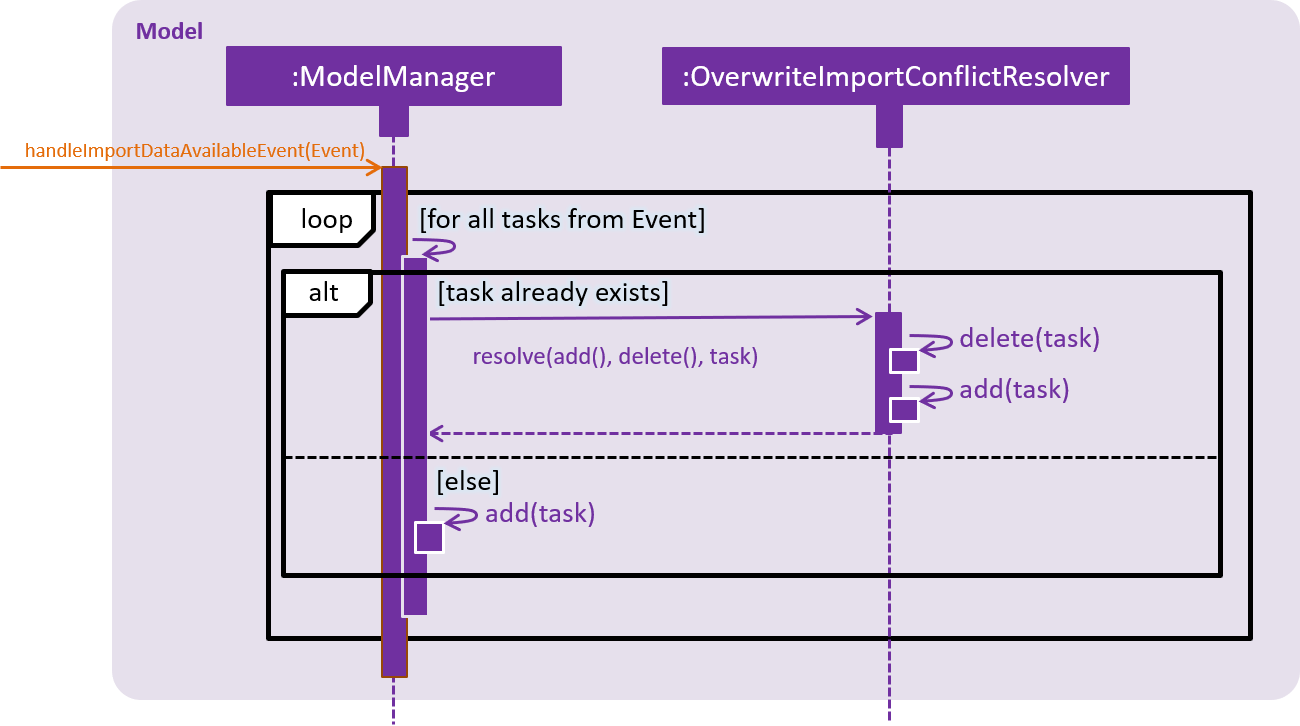
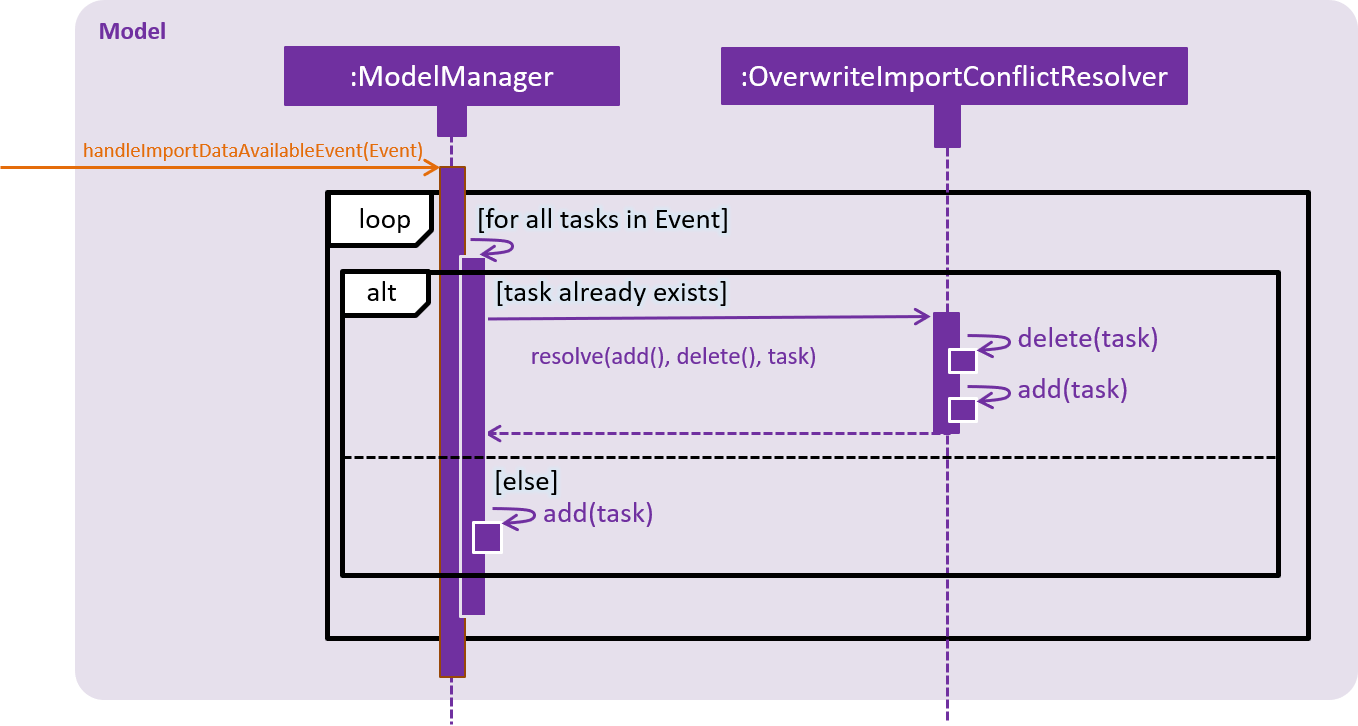
Rebuild pages at 8421741361dd2a0fd14294b3772966d11d95e7c3

diff --git a/team/sijie123.html b/team/sijie123.html
@@ -16,7 +16,7 @@
 <p>Deadline Manager is an easy-to-use application to assist students in managing deadlines. Interacting through a Command Line Interface (CLI), users can easily manage their schedules and focus on what is most important.</p>
 </div>
 <div class="paragraph">
-<p>Deadline Manager is written in Java and builds upon <a href="https://github.com/nus-cs2103-AY1819S1/addressbook-level4">AddressBook Level 4</a>, a code base originally designed to teach Software Engineering principles. For more information and to take our project for a test run, please visit our home page [<a href="https://cs2103-ay1819s1-w17-4.github.io/main">on GitHub</a>].</p>
+<p>Deadline Manager is written in Java and builds upon AddressBook Level 4, a code base originally designed to teach Software Engineering principles. For more information and to take our project for a test run, please visit our home page [<a href="https://cs2103-ay1819s1-w17-4.github.io/main">on GitHub</a>].</p>
 </div>
 </div>
 </div>
@@ -91,7 +91,7 @@
 <p>Added additional checks to detect potential errors in file I/O operations (e.g. saving).</p>
 </li>
 <li>
-<p>Refactored unit test for <code>AddCommandTest</code> by creating  <code>ModelStub</code>, a class containing scaffolding code common to other instances of <code>CommandTest</code>. (<a href="https://github.com/CS2103-AY1819S1-W17-4/main/blob/master/src/test/java/seedu/address/logic/commands/ModelStub.java">ModelStub.java</a>)</p>
+<p>Refactored unit test for <code>AddCommandTest</code> by creating  <code>ModelStub</code>, a class containing scaffolding code common to other types of <code>CommandTest</code>.</p>
 </li>
 </ul>
 </div>
@@ -460,33 +460,7 @@ An ImportExportExceptionEvent is raised if Deadline Manager fails to read or wri
 <div class="paragraph">
 <p>To facilitate communication between the two components, the deadline manager uses the event-driven model.
 An import or export request event is created by <code>ModelManager</code>, and a handler in <code>StorageManager</code> is invoked to handle the event.
-After data has been successfully read or written, the response is placed in another event for <code>ModelManager</code> to process.</p>
-</div>
-<div class="paragraph">
-<p>To achieve the above, <code>ModelManager</code> indicates an import/export request by creating these events:</p>
-</div>
-<div class="ulist">
-<ul>
-<li>
-<p><code>ImportRequestEvent</code>: Requests for a new import from file.</p>
-</li>
-<li>
-<p><code>ExportRequestEvent</code>: Requests to create a new export to file.</p>
-</li>
-</ul>
-</div>
-<div class="paragraph">
-<p><code>ModelManager</code> implements these additional methods to handle the responses from <code>Storage</code>:</p>
-</div>
-<div class="ulist">
-<ul>
-<li>
-<p><code>handleImportDataAvailableEvent</code>: Processes the read task collection and merges tasks into the current collection.</p>
-</li>
-<li>
-<p><code>handleImportExportExceptionEvent</code>: Indicates internally that the last import/export request has failed.</p>
-</li>
-</ul>
+After data has been successfully read or written, the response is placed in a <code>DataAvailableEvent</code> for <code>ModelManager</code> to process. Similarly, errors also are passed between the two components using events (such as <code>ImportExportExceptionEvent</code>).</p>
 </div>
 <div class="admonitionblock note">
 <table>
@@ -495,36 +469,10 @@ After data has been successfully read or written, the response is placed in anot
 <i class="fa icon-note" title="Note"></i>
 </td>
 <td class="content">
-It is the responsibility of the <code>Model</code> to feedback to the user in the case of an exception.
+Due to limited space, detailed technical implementation of inter-component communication is omitted, and an overview is presented below in <a href="#sequence-flow">Sequence Flow</a> instead. You may wish to refer to the <a href="https://cs2103-ay1819s1-w17-4.github.io/main/DeveloperGuide.html#inter-component-communication">Developer Guide</a> for details.
 </td>
 </tr>
 </table>
-</div>
-<div class="paragraph">
-<p>Similarly, <code>StorageManager</code> returns the result of imports and errors with the following events:</p>
-</div>
-<div class="ulist">
-<ul>
-<li>
-<p><code>ImportExportExceptionEvent</code>: Indicates that an error has occurred with import or export.</p>
-</li>
-<li>
-<p><code>ImportDataAvailableEvent</code>: Indicates that the requested task collection has been read from disk.</p>
-</li>
-</ul>
-</div>
-<div class="paragraph">
-<p><code>StorageManager</code> implements these additional methods to handle requests from <code>Model</code>:</p>
-</div>
-<div class="ulist">
-<ul>
-<li>
-<p><code>handleImportRequestEvent</code>: Processes an import event and reads from file.</p>
-</li>
-<li>
-<p><code>handleExportRequestEvent</code>: Processes an export event and writes to file.</p>
-</li>
-</ul>
 </div>
 </div>
 </div>
@@ -589,7 +537,7 @@ It is the responsibility of the <code>Model</code> to feedback to the user in th
 <h4 id="import-conflict-resolver"><a class="link" href="#import-conflict-resolver">4.1.3. Import Conflict Resolver</a></h4>
 <div class="paragraph">
 <p>An imported task is deemed conflicting with an existing task if the two tasks compare <code>equal</code> with the internal implementation of Task&#8217;s <code>equal</code> method.
-If the user attempts to import a new task that conflicts with an existing task, the task needs to be de-conflicted with one of the following resolver:</p>
+If the user attempts to import a new conflicting task, Deadline Manager de-conflicts the task with one of the following resolvers:</p>
 </div>
 <div class="ulist">
 <ul>
@@ -612,7 +560,7 @@ If the user attempts to import a new task that conflicts with an existing task, 
 </div>
 <div class="imageblock">
 <div class="content">
-<img src="../images/ImportConflictResolverSequenceDiagram.png" alt="ImportConflictResolverSequenceDiagram" width="800">
+<img src="../images/ImportConflictResolverSequenceDiagram.png" alt="ImportConflictResolverSequenceDiagram" width="600">
 </div>
 <div class="title">Figure 3. Sequence diagram for import conflict resolver</div>
 </div>
@@ -629,13 +577,13 @@ If the user attempts to import a new task that conflicts with an existing task, 
 <p>Step 3b. <code>OverwriteImportConflictResolver</code> will first <code>delete()</code> the existing task, before it calls <code>add()</code> on the new one. This behaviour is specific to <code>OverwriteImportConflictResolver</code>. A <code>DuplicateImportConflictResolver</code> will simply add the new entry, while a <code>IgnoreImportConflictResolver</code> will do nothing.</p>
 </div>
 <div class="paragraph">
-<p>Step 4. Otherwise, if the task doesn&#8217;t exist, <code>ModelManager</code> adds the task to the model.</p>
+<p>Step 4. Otherwise, if the task doesn&#8217;t exist, <code>ModelManager</code> simply adds the task to the model.</p>
 </div>
 </div>
 <div class="sect3">
 <h4 id="csv-format-support"><a class="link" href="#csv-format-support">4.1.4. CSV Format support</a></h4>
 <div class="paragraph">
-<p>The discussion above has been format-agnostic, abstracting away details about the file formats. Deadline Manager supports both eXtensible Markup Language (XML) and Comma Separated Values (CSV) format. Currently, while XML format can be freely used to import and export data, CSV format can only be used to export data.</p>
+<p>The discussion above has been format-agnostic, abstracting away details about the file formats. Deadline Manager supports both eXtensible Markup Language (XML) and Comma Separated Values (CSV) format.</p>
 </div>
 <div class="admonitionblock note">
 <table>
@@ -748,4 +696,4 @@ Due to limited space in the PPP, an aspect on supporting different file formats 
 </div>
 </div>
 </div>
-</div></div><div id="footer"><div class="container"><div id="footer-text">Last updated 2018-11-12 11:28:01 UTC</div></div></div></body></html>
+</div></div><div id="footer"><div class="container"><div id="footer-text">Last updated 2018-11-12 11:51:34 UTC</div></div></div></body></html>

diff --git a/DeveloperGuide.html b/DeveloperGuide.html
@@ -1204,7 +1204,7 @@ An ImportExportExceptionEvent is raised if Deadline Manager fails to read or wri
 <div class="paragraph">
 <p>To facilitate communication between the two components, the deadline manager uses the event-driven model.
 An import or export request event is created by <code>ModelManager</code>, and a handler in <code>StorageManager</code> is invoked to handle the event.
-After data has been successfully read or written, the response is placed in another event for <code>ModelManager</code> to process.</p>
+After data has been successfully read or written, the response is placed in a <code>DataAvailableEvent</code> for <code>ModelManager</code> to process. Similarly, errors also are passed between the two components using events (such as <code>ImportExportExceptionEvent</code>).</p>
 </div>
 <div class="paragraph">
 <p>To achieve the above, <code>ModelManager</code> indicates an import/export request by creating these events:</p>
@@ -1333,7 +1333,7 @@ It is the responsibility of the <code>Model</code> to feedback to the user in th
 <h4 id="import-conflict-resolver"><a class="link" href="#import-conflict-resolver">4.4.3. Import Conflict Resolver</a></h4>
 <div class="paragraph">
 <p>An imported task is deemed conflicting with an existing task if the two tasks compare <code>equal</code> with the internal implementation of Task&#8217;s <code>equal</code> method.
-If the user attempts to import a new task that conflicts with an existing task, the task needs to be de-conflicted with one of the following resolver:</p>
+If the user attempts to import a new conflicting task, Deadline Manager de-conflicts the task with one of the following resolvers:</p>
 </div>
 <div class="ulist">
 <ul>
@@ -1356,7 +1356,7 @@ If the user attempts to import a new task that conflicts with an existing task, 
 </div>
 <div class="imageblock">
 <div class="content">
-<img src="images/ImportConflictResolverSequenceDiagram.png" alt="ImportConflictResolverSequenceDiagram" width="800">
+<img src="images/ImportConflictResolverSequenceDiagram.png" alt="ImportConflictResolverSequenceDiagram" width="600">
 </div>
 <div class="title">Figure 16. Sequence diagram for import conflict resolver</div>
 </div>
@@ -1373,13 +1373,13 @@ If the user attempts to import a new task that conflicts with an existing task, 
 <p>Step 3b. <code>OverwriteImportConflictResolver</code> will first <code>delete()</code> the existing task, before it calls <code>add()</code> on the new one. This behaviour is specific to <code>OverwriteImportConflictResolver</code>. A <code>DuplicateImportConflictResolver</code> will simply add the new entry, while a <code>IgnoreImportConflictResolver</code> will do nothing.</p>
 </div>
 <div class="paragraph">
-<p>Step 4. Otherwise, if the task doesn&#8217;t exist, <code>ModelManager</code> adds the task to the model.</p>
+<p>Step 4. Otherwise, if the task doesn&#8217;t exist, <code>ModelManager</code> simply adds the task to the model.</p>
 </div>
 </div>
 <div class="sect3">
 <h4 id="csv-format-support"><a class="link" href="#csv-format-support">4.4.4. CSV Format support</a></h4>
 <div class="paragraph">
-<p>The discussion above has been format-agnostic, abstracting away details about the file formats. Deadline Manager supports both eXtensible Markup Language (XML) and Comma Separated Values (CSV) format. Currently, while XML format can be freely used to import and export data, CSV format can only be used to export data.</p>
+<p>The discussion above has been format-agnostic, abstracting away details about the file formats. Deadline Manager supports both eXtensible Markup Language (XML) and Comma Separated Values (CSV) format.</p>
 </div>
 <div class="paragraph">
 <p>The CSV/XML format support is implemented using the respective <code>{*}TaskCollectionStorage</code> class. <code>XMLTaskCollectionStorage</code> is able to import and export data, so it implements both <code>TaskCollectionReadStorage</code> and <code>TaskCollectionWriteStorage</code> interface. On the other hand, <code>CSVTaskCollectionStorage</code> can only export data, so it implements only the <code>TaskCollectionWriteStorage</code> interface.</p>
@@ -4834,4 +4834,4 @@ Expected: Similar to previous.</p>
 </div>
 </div>
 </div>
-</div></div><div id="footer"><div class="container"><div id="footer-text">Last updated 2018-11-12 11:28:01 UTC</div></div></div></body></html>
+</div></div><div id="footer"><div class="container"><div id="footer-text">Last updated 2018-11-12 11:51:34 UTC</div></div></div></body></html>

diff --git a/team/johndoe.html b/team/johndoe.html
@@ -442,4 +442,4 @@ If the <code>currentStatePointer</code> is at index <code>taskCollectionStateLis
 <p><em>{Optionally, you may include other projects in your portfolio.}</em></p>
 </div>
 </div>
-</div></div><div id="footer"><div class="container"><div id="footer-text">Last updated 2018-11-12 11:28:01 UTC</div></div></div></body></html>
+</div></div><div id="footer"><div class="container"><div id="footer-text">Last updated 2018-11-12 11:51:34 UTC</div></div></div></body></html>

diff --git a/ContactUs.html b/ContactUs.html
@@ -12,4 +12,4 @@
 <p><strong>Email us</strong> : You can also reach us at <code>damith [at] comp.nus.edu.sg</code></p>
 </li>
 </ul>
-</div></div><div id="footer"><div class="container"><div id="footer-text">Last updated 2018-11-12 11:28:01 UTC</div></div></div></body></html>
+</div></div><div id="footer"><div class="container"><div id="footer-text">Last updated 2018-11-12 11:51:34 UTC</div></div></div></body></html>

diff --git a/LearningOutcomes.html b/LearningOutcomes.html
@@ -542,4 +542,4 @@ class gives some examples of how to use <em>Equivalence Partitions</em>, <em>Bou
 </div>
 </div>
 </div>
-</div></div><div id="footer"><div class="container"><div id="footer-text">Last updated 2018-11-12 11:28:01 UTC</div></div></div></body></html>
+</div></div><div id="footer"><div class="container"><div id="footer-text">Last updated 2018-11-12 11:51:34 UTC</div></div></div></body></html>

diff --git a/team/btzy.html b/team/btzy.html
@@ -605,4 +605,4 @@ The second component in the list above also accepts a filter unit that contains 
 </div>
 </div>
 </div>
-</div></div><div id="footer"><div class="container"><div id="footer-text">Last updated 2018-11-12 11:28:01 UTC</div></div></div></body></html>
+</div></div><div id="footer"><div class="container"><div id="footer-text">Last updated 2018-11-12 11:51:34 UTC</div></div></div></body></html>

diff --git a/team/ranaldmiao.html b/team/ranaldmiao.html
@@ -523,4 +523,4 @@ Lists all attachments currently associated with the 1st task in the deadline man
 </div>
 </div>
 </div>
-</div></div><div id="footer"><div class="container"><div id="footer-text">Last updated 2018-11-12 11:28:01 UTC</div></div></div></body></html>
+</div></div><div id="footer"><div class="container"><div id="footer-text">Last updated 2018-11-12 11:51:34 UTC</div></div></div></body></html>

diff --git a/team/sidhant007.html b/team/sidhant007.html
@@ -479,4 +479,4 @@ A <code>NullPointerException</code> is raised in case the <code>SortCommand</cod
 </div>
 </div>
 </div>
-</div></div><div id="footer"><div class="container"><div id="footer-text">Last updated 2018-11-12 11:28:01 UTC</div></div></div></body></html>
+</div></div><div id="footer"><div class="container"><div id="footer-text">Last updated 2018-11-12 11:51:34 UTC</div></div></div></body></html>

diff --git a/UsingGradle.html b/UsingGradle.html
@@ -255,4 +255,4 @@ See <code>build.gradle</code> &#8594; <code>allprojects</code> &#8594; <code>dep
 </ul>
 </div>
 </div>
-</div></div><div id="footer"><div class="container"><div id="footer-text">Last updated 2018-11-12 11:28:01 UTC</div></div></div></body></html>
+</div></div><div id="footer"><div class="container"><div id="footer-text">Last updated 2018-11-12 11:51:34 UTC</div></div></div></body></html>

diff --git a/UsingNetlify.html b/UsingNetlify.html
@@ -123,4 +123,4 @@ The publish directory is the directory in which the built HTML documentation res
 </ol>
 </div>
 </div>
-</div></div><div id="footer"><div class="container"><div id="footer-text">Last updated 2018-11-12 11:28:01 UTC</div></div></div></body></html>
+</div></div><div id="footer"><div class="container"><div id="footer-text">Last updated 2018-11-12 11:51:34 UTC</div></div></div></body></html>

diff --git a/UsingCoveralls.html b/UsingCoveralls.html
@@ -96,4 +96,4 @@ If you have not set up Travis CI, see <a href="UsingTravis.html">UsingTravis.ado
 </ol>
 </div>
 </div>
-</div></div><div id="footer"><div class="container"><div id="footer-text">Last updated 2018-11-12 11:28:01 UTC</div></div></div></body></html>
+</div></div><div id="footer"><div class="container"><div id="footer-text">Last updated 2018-11-12 11:51:34 UTC</div></div></div></body></html>

diff --git a/UsingTravis.html b/UsingTravis.html
@@ -280,4 +280,4 @@ Suggested change: Remove the codacy badge from <code>README</code>.</p>
 </div>
 </div>
 </div>
-</div></div><div id="footer"><div class="container"><div id="footer-text">Last updated 2018-11-12 11:28:01 UTC</div></div></div></body></html>
+</div></div><div id="footer"><div class="container"><div id="footer-text">Last updated 2018-11-12 11:51:34 UTC</div></div></div></body></html>
